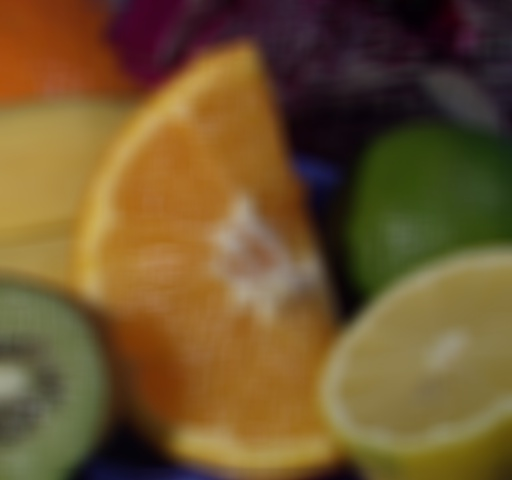
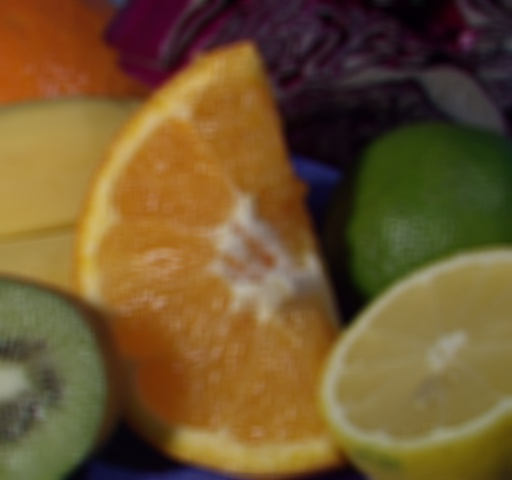
change blur-self.jpg

diff --git a/OpenCVKadai/problem1_1.cpp b/OpenCVKadai/problem1_1.cpp
@@ -1,8 +1,8 @@
 #include <opencv2/opencv.hpp>
 #include <stdio.h>
 
-#define FLAG 1 // (0: direct access / 1: built-in function)
-#define BLUR_LEVEL 10
+#define FLAG 0 // (0: direct access / 1: built-in function)
+#define BLUR_LEVEL 5
 
 
 char* preset_file = "/home/denjo/opencv.build/opencv-2.4.11/samples/cpp/fruits.jpg";
